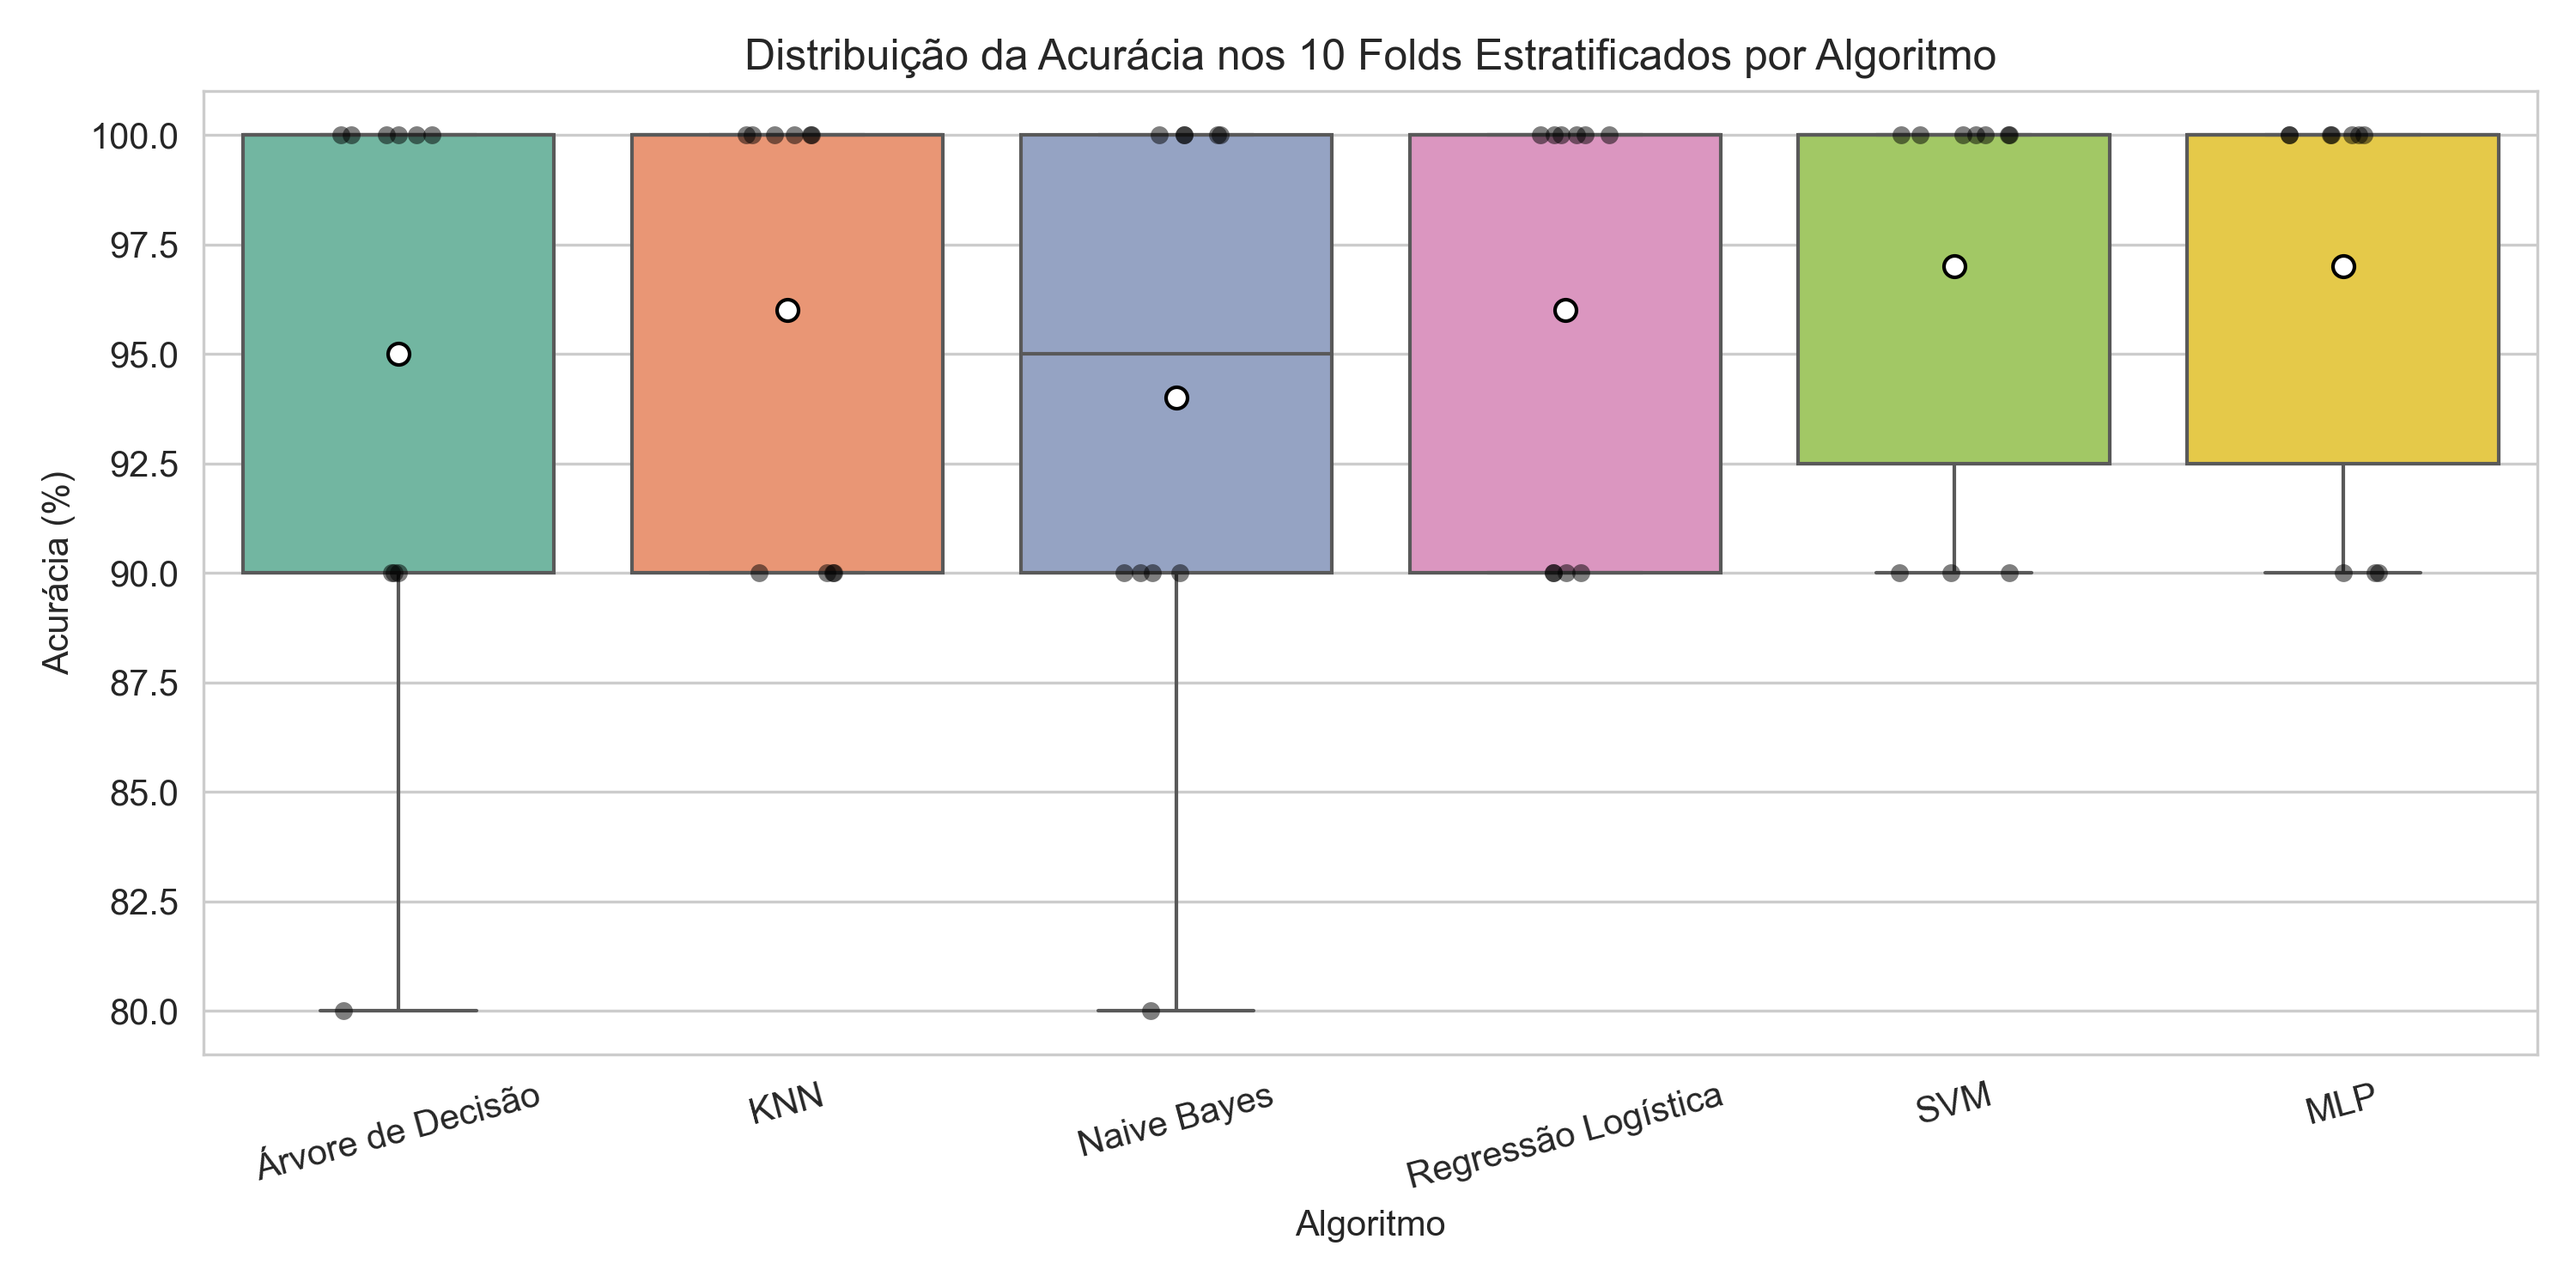
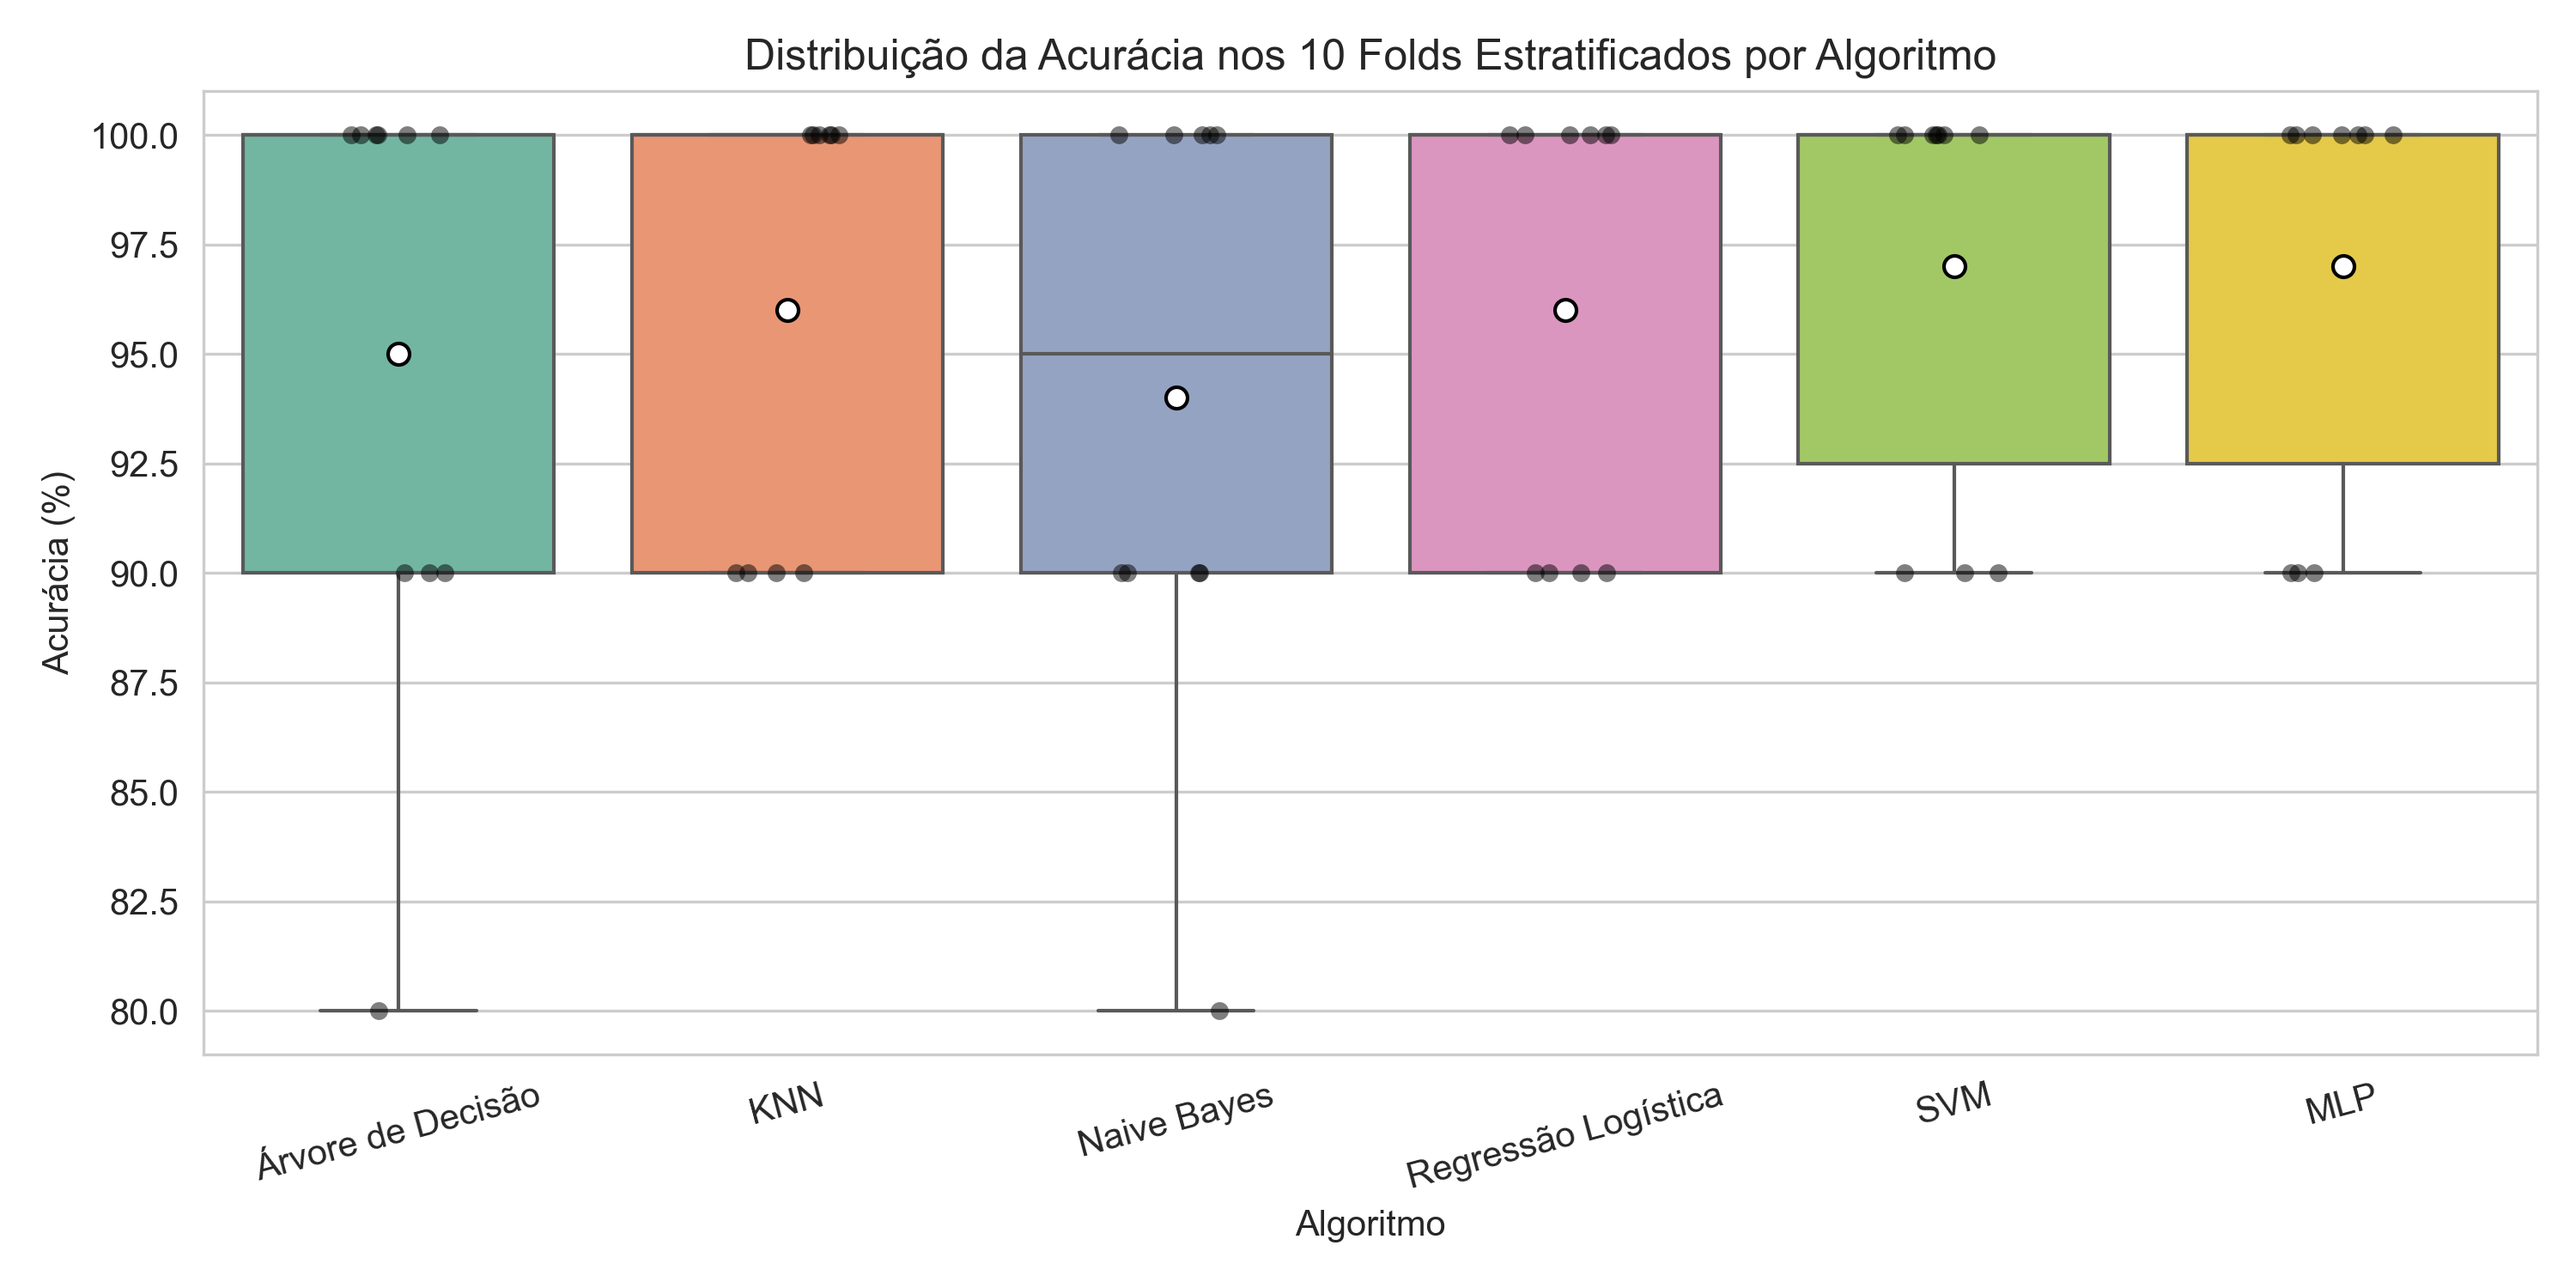
Ajustes do Zoo e pipeline, relatórios gerados em gráficos
O sklearn ainda emite avisos porque a classe menos frequente tem 4 exemplos, abaixo dos 10 folds. Isso não interrompe a execução, mas deve ser considerado ao interpretar as métricas.
src/preprocess.py: pré-processamento do Zoo e pipeline com transformações ajustadas dentro dos folds.
src/dataset_info.py: coleta e exportação das estatísticas e distribuição das classes.
Relatórios gerados em results/tables/ e gráfico em results/figures/class_distribution.png.

diff --git a/src/dataset_info.py b/src/dataset_info.py
@@ -1,0 +1,166 @@
+"""Summarize dataset size, class balance, and class distributions."""
+
+import matplotlib
+
+matplotlib.use("Agg")
+import matplotlib.pyplot as plt
+import pandas as pd
+
+from src.preprocess import PROJECT_ROOT, PROCESSED_DIR, RAW_DIR, TARGET_CANDIDATES
+
+
+TABLES_DIR = PROJECT_ROOT / "results" / "tables"
+FIGURES_DIR = PROJECT_ROOT / "results" / "figures"
+CSV_PATH = TABLES_DIR / "dataset_info.csv"
+TEX_PATH = TABLES_DIR / "dataset_info.tex"
+FIGURE_PATH = FIGURES_DIR / "class_distribution.png"
+
+DATASET_METADATA = {
+    "zoo": {
+        "name": "Zoo",
+        "source_url": "https://archive.ics.uci.edu/dataset/111/zoo",
+    },
+}
+CLASS_NAMES_ZOO = {
+    1: "Mamífero",
+    2: "Ave",
+    3: "Réptil",
+    4: "Peixe",
+    5: "Anfíbio",
+    6: "Inseto",
+    7: "Invertebrado",
+}
+
+
+def _find_target(columns: pd.Index, dataset_name: str, version: str) -> str:
+    target = next((name for name in TARGET_CANDIDATES if name in columns), None)
+    if target is None:
+        raise ValueError(
+            f"{dataset_name}: target column not found in {version}; "
+            f"expected one of {TARGET_CANDIDATES}."
+        )
+    return target
+
+
+def _imbalance_level(ratio: float) -> str:
+    # Reporting convention: <=3 is low, <=10 is moderate, and >10 is high.
+    if ratio <= 3:
+        return "Baixo"
+    if ratio <= 10:
+        return "Moderado"
+    return "Alto"
+
+
+def collect_dataset_info() -> tuple[pd.DataFrame, dict[str, pd.Series]]:
+    """Collect metadata for each raw CSV that has a matching processed CSV."""
+    if not RAW_DIR.is_dir():
+        raise FileNotFoundError(f"Raw dataset directory not found: {RAW_DIR}")
+
+    raw_files = sorted(RAW_DIR.glob("*.csv"))
+    if not raw_files:
+        raise FileNotFoundError(f"No raw CSV datasets found in {RAW_DIR}")
+
+    records = []
+    distributions: dict[str, pd.Series] = {}
+    for raw_path in raw_files:
+        dataset_key = raw_path.stem.lower()
+        metadata = DATASET_METADATA.get(dataset_key)
+        if metadata is None:
+            raise ValueError(
+                f"No source URL metadata registered for dataset '{raw_path.stem}'. "
+                "Add its name and source_url to DATASET_METADATA."
+            )
+
+        processed_path = PROCESSED_DIR / raw_path.name
+        if not processed_path.is_file():
+            raise FileNotFoundError(
+                f"Processed dataset not found for {raw_path.name}: {processed_path}"
+            )
+
+        raw = pd.read_csv(raw_path)
+        processed = pd.read_csv(processed_path)
+        name = metadata["name"]
+        raw_target = _find_target(raw.columns, name, "raw CSV")
+        processed_target = _find_target(processed.columns, name, "processed CSV")
+
+        class_counts = raw[raw_target].dropna().value_counts().sort_index()
+        if class_counts.empty:
+            raise ValueError(f"{name}: no labeled examples found in the raw CSV.")
+
+        majority_class = class_counts.idxmax()
+        majority_count = int(class_counts.max())
+        minority_count = int(class_counts.min())
+        labeled_examples = int(class_counts.sum())
+        imbalance_ratio = majority_count / minority_count
+        raw_attributes = [column for column in raw.columns if column != raw_target]
+        processed_attributes = [
+            column for column in processed.columns if column != processed_target
+        ]
+        dataset_distribution = class_counts.copy()
+        if dataset_key == "zoo":
+            dataset_distribution.index = [
+                f"{class_id} - {CLASS_NAMES_ZOO.get(class_id, 'Classe')}"
+                for class_id in dataset_distribution.index
+            ]
+        distributions[name] = dataset_distribution
+
+        records.append(
+            {
+                "Dataset": name,
+                "Fonte_URL": metadata["source_url"],
+                "N_Exemplos": len(raw),
+                "N_Exemplos_Processados": len(processed),
+                "N_Atributos_Antes": len(raw_attributes),
+                "N_Atributos_Depois": len(processed_attributes),
+                "N_Classes": len(class_counts),
+                "Classe_Majoritária": majority_class,
+                "N_Exemplos_Classe_Majoritária": majority_count,
+                "Proporção_Majoritária_pct": round(
+                    majority_count / labeled_examples * 100, 2
+                ),
+                "Razão_Maioria_Minoria": round(imbalance_ratio, 2),
+                "Nível_Desbalanceamento": _imbalance_level(imbalance_ratio),
+            }
+        )
+
+    return pd.DataFrame(records), distributions
+
+
+def save_class_distribution(distributions: dict[str, pd.Series]) -> None:
+    """Save a count bar chart for each dataset's class distribution."""
+    if not distributions:
+        raise ValueError("No class distributions are available to plot.")
+
+    figure, axes = plt.subplots(
+        nrows=len(distributions),
+        ncols=1,
+        figsize=(10, max(4, 4 * len(distributions))),
+        squeeze=False,
+    )
+    for axis, (dataset_name, counts) in zip(axes[:, 0], distributions.items()):
+        bars = axis.bar(counts.index.astype(str), counts.values, color="#4472C4")
+        axis.set_title(f"Distribuição de classes — {dataset_name}")
+        axis.set_xlabel("Classe")
+        axis.set_ylabel("Número de exemplos")
+        axis.bar_label(bars, padding=3)
+        axis.set_ylim(0, max(counts.values) * 1.15)
+
+    figure.tight_layout()
+    FIGURES_DIR.mkdir(parents=True, exist_ok=True)
+    figure.savefig(FIGURE_PATH, dpi=300, bbox_inches="tight")
+    plt.close(figure)
+
+
+def main() -> None:
+    info, distributions = collect_dataset_info()
+    TABLES_DIR.mkdir(parents=True, exist_ok=True)
+    info.to_csv(CSV_PATH, index=False, encoding="utf-8")
+    info.to_latex(TEX_PATH, index=False, escape=True, float_format="%.2f")
+    save_class_distribution(distributions)
+    print(f"Dataset table saved to {CSV_PATH}")
+    print(f"LaTeX table saved to {TEX_PATH}")
+    print(f"Class distribution figure saved to {FIGURE_PATH}")
+
+
+if __name__ == "__main__":
+    main()

diff --git a/results/tables/dataset_info.tex b/results/tables/dataset_info.tex
@@ -1,0 +1,7 @@
+\begin{tabular}{llrrrrrrrrrl}
+\toprule
+Dataset & Fonte\_URL & N\_Exemplos & N\_Exemplos\_Processados & N\_Atributos\_Antes & N\_Atributos\_Depois & N\_Classes & Classe\_Majoritária & N\_Exemplos\_Classe\_Majoritária & Proporção\_Majoritária\_pct & Razão\_Maioria\_Minoria & Nível\_Desbalanceamento \\
+\midrule
+Zoo & https://archive.ics.uci.edu/dataset/111/zoo & 101 & 101 & 17 & 16 & 7 & 1 & 41 & 40.59 & 10.25 & Alto \\
+\bottomrule
+\end{tabular}
